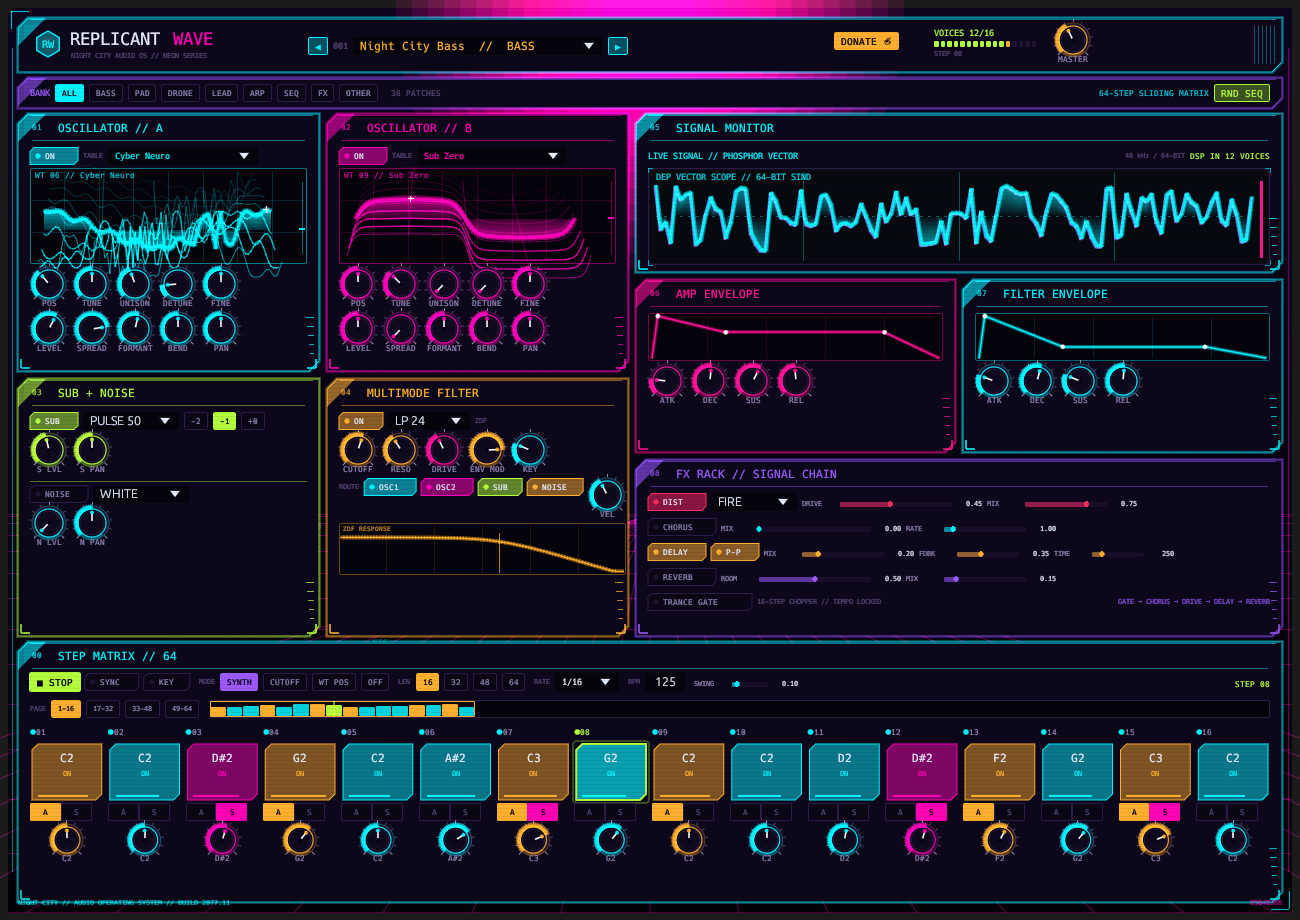
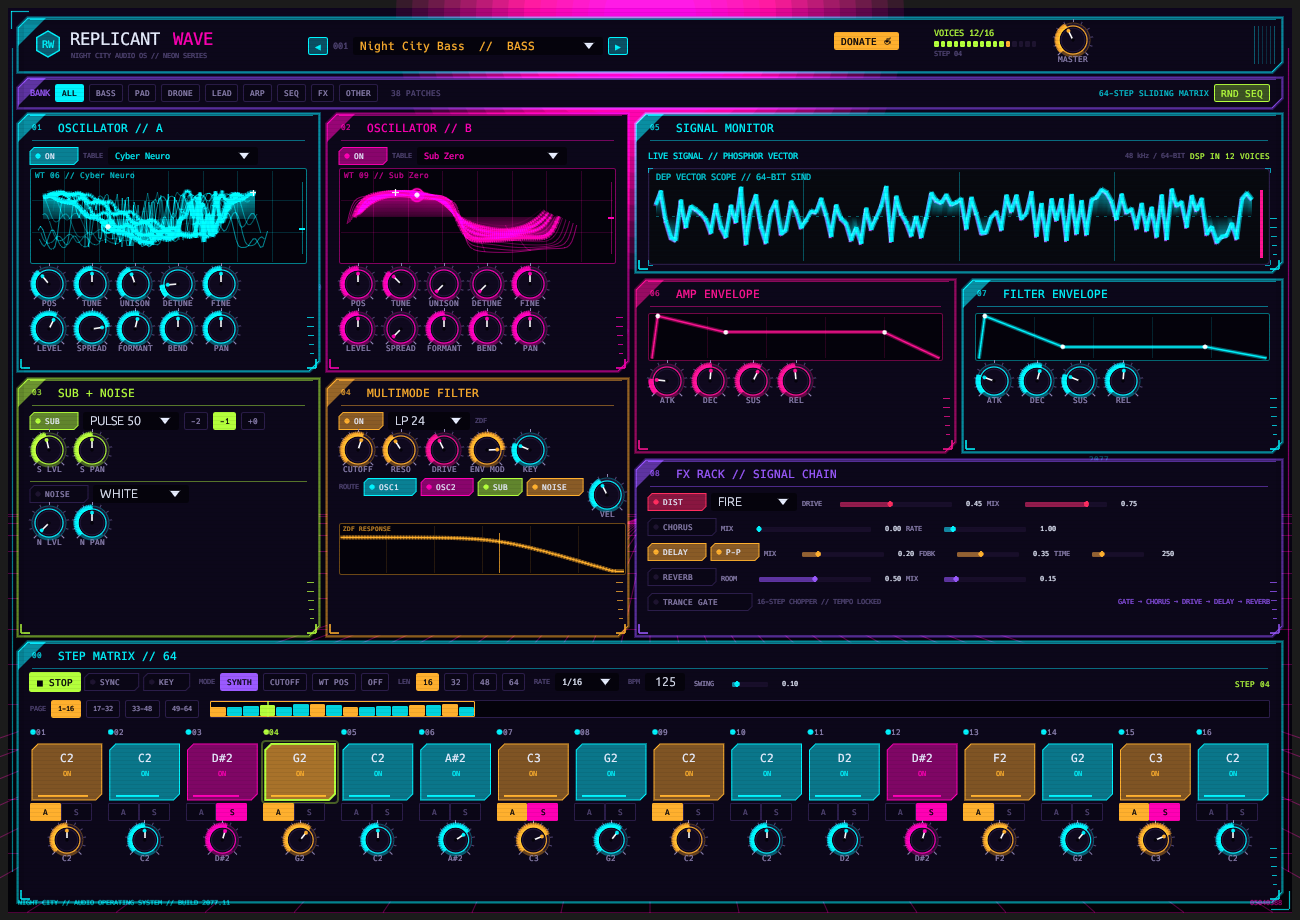
fix(gui): unfreeze the GPU wavetable animation and auto-fit the hologram (v1.1.1)
The wavetable, oscilloscope and backdrop animations were driven by
SystemTime::now().duration_since(UNIX_EPOCH).as_secs_f32(). At a Unix
timestamp of ~1.79e9 s an f32 has a ULP of ~213 s, so the animation clock
never advanced between frames and every sin(t * k) term was frozen. The
waveforms rendered once and then stood still.

- add gui::time, a process-local Instant clock with sub-frame resolution,
  and route every animated view through it
- request continuous repaint from the wavetable and scope views so motion
  never depends on parent scheduling
- rebuild the hologram motion: orbital camera yaw/pitch breathing, a
  triangle-wave depth scan, per-slice ripple with its own phase, a pulsing
  active wave, an energy orb orbiting the crest and an animated mesh energy
- reserve the wave excursion before laying out slice baselines and scale by
  the table peak, so no trace is clipped by the viewport edge
- clip every wavetable painter to its own rect: the 3D stack can no longer
  bleed into the knobs below
- unit tests assert the clock resolves ~16 ms frames and stays small
- refresh the README screenshot from the running standalone

diff --git a/src/gui/wavetable_view.rs b/src/gui/wavetable_view.rs
@@ -2,6 +2,10 @@
 //!
 //! The editor works from compact pre-sampled thumbnails (`WaveThumb`) so it
 //! never needs to borrow the audio engine's wavetable bank while painting.
+//!
+//! All motion is driven by [`super::time::now_secs`], a monotonic clock with
+//! sub-frame resolution. Do **not** feed `SystemTime` epoch seconds into an
+//! `f32`: at ~1.79e9 s the ULP is ~213 s, which froze every animation.
 
 use super::theme::CyberTheme;
 use crate::audio::wavetable::Wavetable;
@@ -10,7 +14,7 @@ use nih_plug_egui::egui::{
     Ui, Vec2,
 };
 
-const THUMB_SLICES: usize = 10;
+const THUMB_SLICES: usize = 11;
 const THUMB_POINTS: usize = 96;
 
 #[derive(Clone, Debug, Default)]
@@ -18,6 +22,8 @@ pub struct WaveThumb {
     pub name: String,
     pub slices: Vec<Vec<f32>>,
     pub num_frames: usize,
+    /// Largest absolute sample in the table, used to auto-fit the display.
+    pub peak: f32,
 }
 
 impl WaveThumb {
@@ -33,10 +39,16 @@ impl WaveThumb {
             }
             slices.push(pts);
         }
+        let peak = slices
+            .iter()
+            .flat_map(|s| s.iter())
+            .fold(0.0f32, |acc, v| acc.max(v.abs()))
+            .max(0.05);
         Self {
             name: wt.name.clone(),
             slices,
             num_frames: nf,
+            peak,
         }
     }
 
@@ -76,15 +88,16 @@ pub fn draw_wavetable_preview(
     width: f32,
     height: f32,
 ) -> Response {
-    let t = std::time::SystemTime::now()
-        .duration_since(std::time::UNIX_EPOCH)
-        .map(|d| d.as_secs_f32())
-        .unwrap_or(0.0);
+    let t = super::time::now_secs();
+    // Keep the hologram alive even if the parent stops asking for repaints.
+    ui.ctx().request_repaint();
 
     let (rect, response) = ui.allocate_exact_size(Vec2::new(width, height), Sense::hover());
-    let painter = ui.painter();
+    // Hard-clip to the viewport: a deep 3D stack must never bleed into the
+    // knobs below the display.
+    let painter = ui.painter().with_clip_rect(rect.intersect(ui.clip_rect()));
 
-    // Recessed CRT well with a cut top-right corner.
+    // Recessed CRT well.
     painter.rect_filled(rect, 2.0, Color32::from_rgb(4, 2, 11));
     painter.rect_stroke(
         rect,
@@ -109,68 +122,118 @@ pub fn draw_wavetable_preview(
         );
     }
 
-    let base_y_front = rect.max.y - 8.0;
-    let base_y_back = rect.min.y + 13.0;
     let margin_x = 8.0;
-    let depth_x = 17.0;
-    let project = |phase: f32, amp: f32, z: f32| -> Pos2 {
-        let persp = 0.80 + 0.20 * z;
-        let baseline = base_y_front - (1.0 - z) * (base_y_front - base_y_back);
-        let start_x = rect.min.x + margin_x + (1.0 - z) * depth_x;
-        let avail_w = (rect.width() - margin_x * 2.0 - depth_x) * persp;
+
+    // Vertical budget: the wave excursion is reserved first, and the slice
+    // baselines share whatever is left. This guarantees every slice fits,
+    // regardless of how hot the wavetable is.
+    let top_y = rect.min.y + 12.0;
+    let bottom_y = rect.max.y - 10.0;
+    let span_y = (bottom_y - top_y).max(24.0);
+    let fit = (1.0 / wt.peak).clamp(0.55, 1.6);
+
+    // --- Orbital camera -----------------------------------------------------
+    // Slow cinematic breathing so the stack reads as a volume, not a still.
+    let cam_yaw = (t * 0.62).sin() * 9.0; // horizontal parallax in px
+    let cam_pitch = 0.5 + 0.5 * (t * 0.44 + 1.1).sin(); // 0..1 depth tilt
+    let depth_x = 15.0 + cam_pitch * 9.0;
+
+    // Amplitudes peak at <= 1.0 by construction; the pitch breathing only ever
+    // shrinks the excursion so the reserved budget still holds.
+    let amp_budget = (span_y * 0.36 * fit).min(span_y * 0.44);
+    let band = (span_y - 2.0 * amp_budget).max(10.0);
+    let y_front = top_y + amp_budget + band;
+    let y_back = top_y + amp_budget;
+    let amp_base = amp_budget * (0.90 + 0.10 * cam_pitch);
+
+    let project = move |phase: f32, amp: f32, z: f32| -> Pos2 {
+        let persp = 0.78 + 0.22 * z;
+        let baseline = y_back + z * (y_front - y_back);
+        let start_x = rect.min.x + margin_x + (1.0 - z) * depth_x + cam_yaw * (1.0 - z);
+        let avail_w =
+            (rect.width() - margin_x * 2.0 - depth_x) * persp * (1.0 + 0.04 * cam_yaw / 9.0);
         let x = start_x + phase * avail_w;
-        let amp_scale = rect.height() * 0.27 * persp;
-        pos2(x, baseline - amp * amp_scale)
+        pos2(x, baseline - amp.clamp(-1.05, 1.05) * amp_base * persp)
     };
 
-    let scan_z = (t * 0.8).sin().abs() * 0.85 + 0.05;
+    // Traveling depth scan (triangle so it sweeps back and forth without
+    // teleporting at the turn-around).
+    let scan_phase = (t * 0.42).fract();
+    let scan_z = if scan_phase < 0.5 {
+        scan_phase * 2.0
+    } else {
+        (1.0 - scan_phase) * 2.0
+    };
+
     let mut slices: Vec<Vec<Pos2>> = Vec::with_capacity(THUMB_SLICES);
 
     for s in 0..THUMB_SLICES {
         let z = s as f32 / (THUMB_SLICES - 1) as f32;
         let dist = (z - scan_z).abs();
-        let lit = (1.0 - dist / 0.25).max(0.0);
-        let alpha = (18.0 + z * 70.0 + lit * 110.0).min(230.0) as u8;
-        let tint = 0.35 + z * 0.65;
+        let lit = (1.0 - dist / 0.22).max(0.0);
+        let alpha = (22.0 + z * 62.0 + lit * 130.0).min(240.0) as u8;
+        let tint = 0.34 + z * 0.66 + lit * 0.25;
         let col = Color32::from_rgba_unmultiplied(
             (color.r() as f32 * tint).min(255.0) as u8,
             (color.g() as f32 * tint).min(255.0) as u8,
             (color.b() as f32 * tint).min(255.0) as u8,
             alpha,
         );
+
+        // Each slice undulates on its own phase so the stack visibly breathes.
+        let slice_phase = z * 5.2 + s as f32 * 0.4;
         let pts: Vec<Pos2> = (0..THUMB_POINTS)
             .map(|i| {
                 let phase = i as f32 / (THUMB_POINTS - 1) as f32;
-                let ripple = 1.0 + 0.05 * (phase * 15.0 - t * 2.8 + z * 6.0).sin();
-                project(phase, wt.sample_slice_public(s, phase) * ripple, z)
+                let ripple = 1.0 + 0.085 * (phase * 12.0 - t * 2.4 + slice_phase).sin();
+                let drift = 0.022 * (phase * 5.0 + t * 1.3 + slice_phase).sin();
+                project(phase, wt.sample_slice_public(s, phase) * ripple + drift, z)
             })
             .collect();
+
         for i in 0..pts.len().saturating_sub(1) {
             painter.line_segment(
                 [pts[i], pts[i + 1]],
-                Stroke::new(if lit > 0.2 { 1.4_f32 } else { 0.9_f32 }, col),
+                Stroke::new(if lit > 0.25 { 1.5_f32 } else { 0.9_f32 }, col),
             );
+        }
+        // Glowing sweep band around the scan plane.
+        if lit > 0.3 {
+            for i in 0..pts.len().saturating_sub(1) {
+                painter.line_segment(
+                    [pts[i], pts[i + 1]],
+                    Stroke::new(4.0_f32, CyberTheme::alpha(color, (lit * 45.0) as u8)),
+                );
+            }
         }
         slices.push(pts);
     }
 
     // Longitudinal ribbons give the stack a holographic volume.
-    for &idx in &[THUMB_POINTS / 4, THUMB_POINTS / 2, 3 * THUMB_POINTS / 4] {
+    for &idx in &[
+        THUMB_POINTS / 5,
+        2 * THUMB_POINTS / 5,
+        THUMB_POINTS / 2,
+        3 * THUMB_POINTS / 5,
+        4 * THUMB_POINTS / 5,
+    ] {
         for s in 0..slices.len().saturating_sub(1) {
             painter.line_segment(
                 [slices[s][idx], slices[s + 1][idx]],
-                Stroke::new(0.7_f32, CyberTheme::alpha(color, 34)),
+                Stroke::new(0.7_f32, CyberTheme::alpha(color, 30)),
             );
         }
     }
 
-    // Active morphed wave.
+    // --- Active morphed wave -------------------------------------------------
     let z_active = 1.0 - position.clamp(0.0, 1.0);
     let active: Vec<Pos2> = (0..THUMB_POINTS)
         .map(|i| {
             let phase = i as f32 / (THUMB_POINTS - 1) as f32;
-            let pulse = 1.0 + 0.035 * (phase * 17.0 - t * 3.6).sin();
-            project(phase, wt.sample(position, phase) * pulse, z_active)
+            // Faster, deeper pulse so the focused wave clearly moves.
+            let pulse = 1.0 + 0.07 * (phase * 15.0 - t * 3.4).sin();
+            let drift = 0.018 * (phase * 6.0 + t * 1.9).sin();
+            project(phase, wt.sample(position, phase) * pulse + drift, z_active)
         })
         .collect();
     let baseline: Vec<Pos2> = (0..THUMB_POINTS)
@@ -179,7 +242,8 @@ pub fn draw_wavetable_preview(
 
     // Filled translucent ribbon under the active trace.
     let mut mesh = Mesh::default();
-    let top = CyberTheme::alpha(color, 100);
+    let energy = 0.5 + 0.5 * (t * 2.2).sin();
+    let top = CyberTheme::alpha(color, (80.0 + energy * 55.0) as u8);
     let bot = CyberTheme::alpha(color, 8);
     for i in 0..THUMB_POINTS.saturating_sub(1) {
         let base = (i * 4) as u32;
@@ -214,6 +278,19 @@ pub fn draw_wavetable_preview(
             [pos2(peak.x, peak.y - d), pos2(peak.x, peak.y + d)],
             Stroke::new(1.2_f32, Color32::WHITE),
         );
+    }
+
+    // Energy orb orbiting the active crest: unmistakable motion cue.
+    let orb_phase = (t * 0.55).fract();
+    let orb_idx = (orb_phase * (active.len() - 1) as f32) as usize;
+    if let Some(orb) = active.get(orb_idx) {
+        painter.circle_filled(*orb, 2.4, Color32::WHITE);
+        painter.circle_stroke(
+            *orb,
+            5.5,
+            Stroke::new(1.2_f32, CyberTheme::alpha(color, 210)),
+        );
+        painter.circle_filled(*orb, 7.5, CyberTheme::alpha(color, 22));
     }
 
     // Position rail.

diff --git a/src/gui/time.rs b/src/gui/time.rs
@@ -1,0 +1,47 @@
+//! Monotonic animation clock for the GUI.
+//!
+//! Using `SystemTime::now().duration_since(UNIX_EPOCH).as_secs_f32()` looks
+//! harmless but is a precision trap: the Unix timestamp is ~1.79e9 seconds, and
+//! an `f32` can only resolve ~213 seconds at that magnitude. Every animated
+//! `sin(t * k)` was therefore evaluated once and then frozen — the wavetable
+//! and backdrop animations looked completely static.
+//!
+//! We instead measure from a process-local `Instant`, so `t` stays small and
+//! keeps sub-millisecond resolution for hours of runtime.
+
+use std::sync::OnceLock;
+use std::time::Instant;
+
+fn start() -> Instant {
+    static START: OnceLock<Instant> = OnceLock::new();
+    *START.get_or_init(Instant::now)
+}
+
+/// Seconds since the first call, with enough precision to animate at 60 FPS.
+#[inline]
+pub fn now_secs() -> f32 {
+    start().elapsed().as_secs_f64() as f32
+}
+
+#[cfg(test)]
+mod tests {
+    use super::*;
+
+    #[test]
+    fn clock_advances_within_a_frame_budget() {
+        let a = now_secs();
+        std::thread::sleep(std::time::Duration::from_millis(20));
+        let b = now_secs();
+        let delta = b - a;
+        assert!(
+            delta >= 0.010 && delta < 1.0,
+            "animation clock must resolve ~16 ms frames, got {delta}"
+        );
+    }
+
+    #[test]
+    fn clock_is_small_enough_for_f32_animation() {
+        // Below ~6 hours an f32 still resolves microseconds, which is plenty.
+        assert!(now_secs() < 21_600.0);
+    }
+}

diff --git a/src/gui/mod.rs b/src/gui/mod.rs
@@ -9,6 +9,7 @@ pub mod model;
 pub mod oscilloscope;
 pub mod sequencer_view;
 pub mod theme;
+pub mod time;
 pub mod wavetable_view;
 
 use crate::audio::filter::FilterType;
@@ -114,12 +115,11 @@ impl GuiSharedState {
 }
 
 pub fn render_cyberpunk_gui(ui: &mut Ui, state: &mut GuiSharedState) {
-    let t = std::time::SystemTime::now()
-        .duration_since(std::time::UNIX_EPOCH)
-        .map(|d| d.as_secs_f32())
-        .unwrap_or(0.0);
+    let t = time::now_secs();
 
-    // 60 FPS for the animated scopes, without starving the audio thread.
+    // 60 FPS for the animated scopes and wavetables, without starving the audio
+    // thread. `request_repaint_after` is a floor; views that need smoother
+    // motion also call `request_repaint` themselves.
     ui.ctx().request_repaint_after(Duration::from_millis(16));
 
     // Apply a queued preset with a non-blocking lock. Never hold the engine

diff --git a/src/gui/oscilloscope.rs b/src/gui/oscilloscope.rs
@@ -79,10 +79,8 @@ pub fn draw_oscilloscope(ui: &mut Ui, samples: &[f32], width: f32, height: f32) 
     );
 
     // High-resolution clock for living vector trace animation
-    let t = std::time::SystemTime::now()
-        .duration_since(std::time::UNIX_EPOCH)
-        .map(|d| d.as_secs_f32())
-        .unwrap_or(0.0);
+    let t = super::time::now_secs();
+    ui.ctx().request_repaint();
 
     // 4. Waveform Coordinates
     let num_points = 120;

diff --git a/src/lib.rs b/src/lib.rs
@@ -79,7 +79,7 @@ impl Plugin for ReplicantWave {
     const VENDOR: &'static str = "DanimanX";
     const URL: &'static str = "https://github.com/DanimanX/ReplicantWave";
     const EMAIL: &'static str = "daniel.rojas@chileatiende.cl";
-    const VERSION: &'static str = "1.1.0";
+    const VERSION: &'static str = "1.1.1";
 
     const AUDIO_IO_LAYOUTS: &'static [AudioIOLayout] = &[AudioIOLayout {
         main_input_channels: None,

diff --git a/README.md b/README.md
@@ -83,7 +83,8 @@ Featuring **2 multi-frame wavetable oscillators**, a **64-step neon step-matrix 
 ### 🔮 3D GPU-Accelerated Animated Holographic Wavetable Engine
 - **Orbital 3D Perspective Waterfall Mesh**: Dynamic 3D undulating terrain rendered directly via hardware GPU triangles (`egui::Mesh`) with depth fog, dynamic perspective tilt, and wireframe ribbons.
 - **Sweeping Depth Laser Scanner**: Sweeps back and forth through depth, casting glowing highlights on terrain slices.
-- **Peak Marker & Depth Scan**: Real-time peak marker and a sweeping depth highlight synchronized to the wavetable frame index at 60 FPS.
+- **Living hologram**: the wavetable views animate continuously at 60 FPS — orbital camera breathing, a traveling depth scan, per-slice ripple, a pulsing active wave, a peak marker and an orbiting energy orb. The display auto-fits the hottest wavetable so no trace is ever clipped by the viewport.
+- **Monotonic GUI clock**: animation uses a process-local `Instant` (`gui::time`), never `SystemTime` epoch seconds. An `f32` cannot resolve ~213 s steps at a Unix timestamp, which previously froze every animation.
 
 ### ⚡ 64-Step Neon Step Matrix
 - **Full-width deck** with transport, mode, length and rate always visible.
